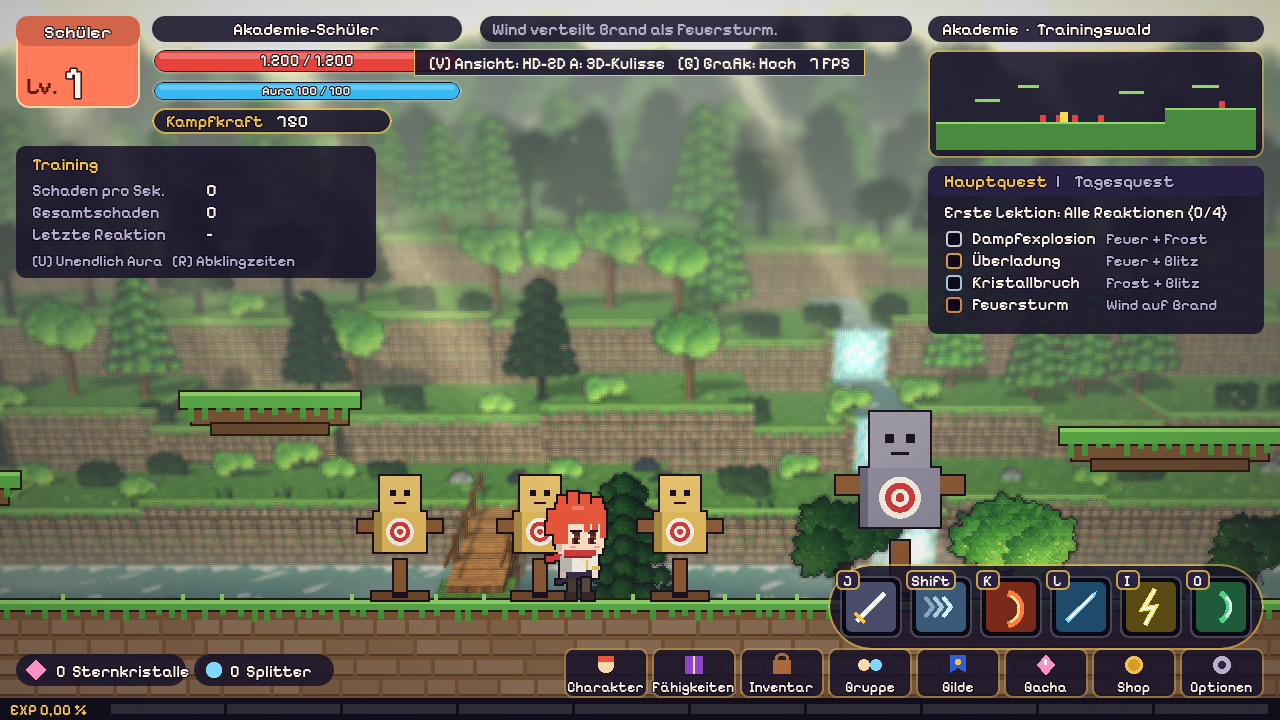
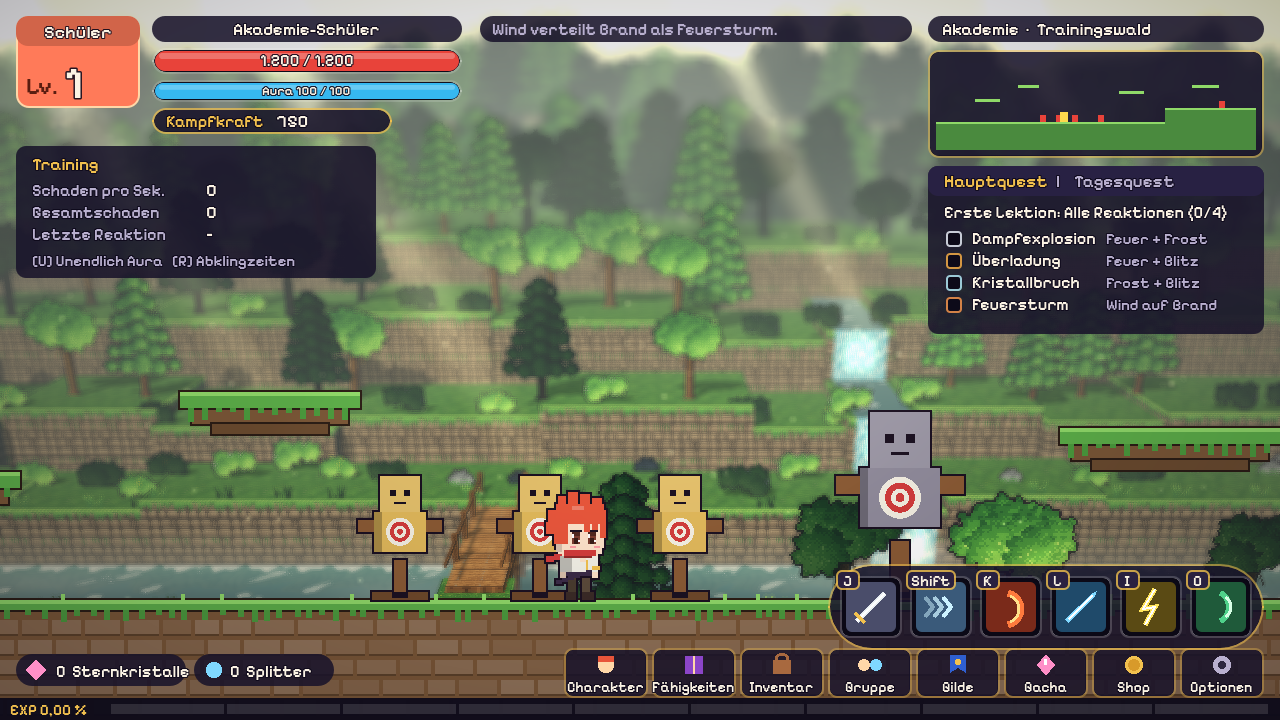
Ansicht auf Taste B legen (V nutzt der VFX-Zweig), Shake robust lesen
Claude-Session: https://claude.ai/code/session_012CKTc5wBJrtNc3DpyNk6z7

Changed region(s): [[0.3125, 0.0611, 0.6875, 0.1222]]

diff --git a/README.md b/README.md
@@ -27,7 +27,7 @@ Spielwelt: die Multiversum-Akademie. Fähigkeiten und Outfits sind eigene Entwü
 | Unendlich Aura / Abklingzeiten zurücksetzen | U / R | – / Back |
 | Look wechseln | C | Start |
 | Hilfe ein/aus | H | – |
-| HD-2D-Test: Ansicht wechseln (flach / A / B) | V | – |
+| HD-2D-Test: Ansicht wechseln (flach / A / B) | B | – |
 | HD-2D-Test: Grafik Hoch / Mittel / Niedrig | G | – |
 
 ## HD-2D-Look (Test)
